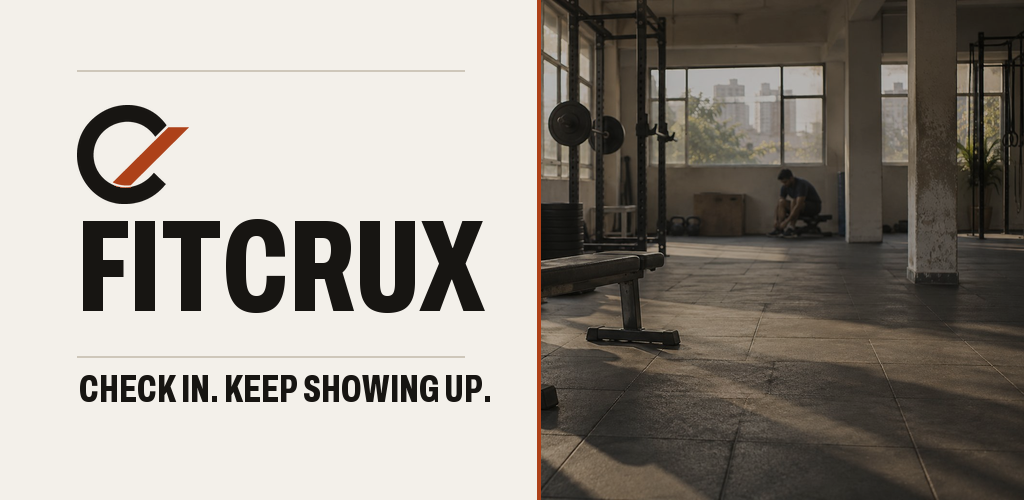
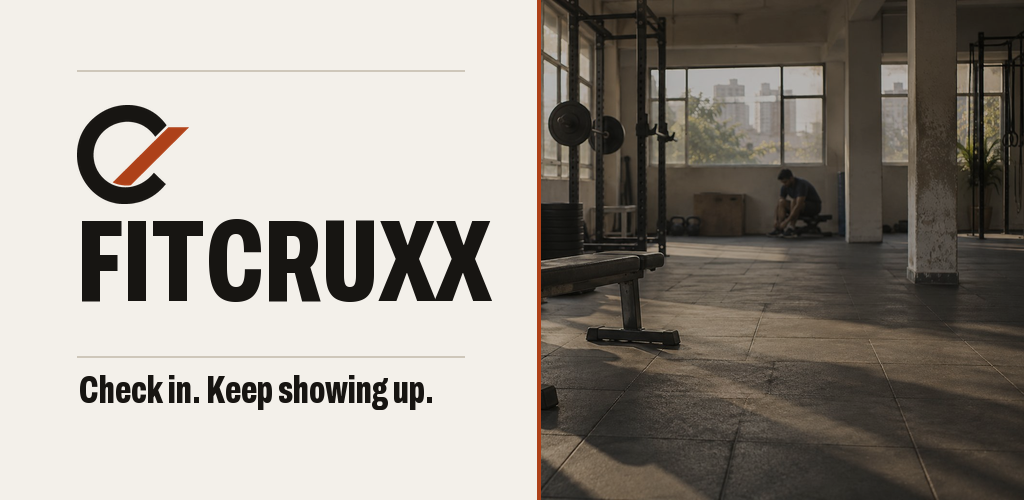
feat: locked rebrand to FitCruxx (in.fitcruxx.app)
PRODUCT_NAME, app label, camera prompt, Play listing copy and a FITCRUXX
feature graphic; the icon set keeps the C-and-clay-stroke mark.

Changed region(s): [[0.0625, 0.42, 0.5, 0.63], [0.0625, 0.75, 0.4688, 0.84]]

diff --git a/packages/shared/src/config/constants.ts b/packages/shared/src/config/constants.ts
@@ -13,7 +13,7 @@ import type { Database } from '@gymloop/db';
  */
 
 /** The one place the product name lives — renaming the product is one edit. */
-export const PRODUCT_NAME = 'Fitcrux';
+export const PRODUCT_NAME = 'FitCruxx';
 
 /** The publisher named on the Google Play listing and in the public legal pages. */
 export const PUBLISHER_NAME = 'Ductx';

diff --git a/store/play/listing.md b/store/play/listing.md
@@ -1,8 +1,8 @@
-# Google Play listing — Fitcrux
+# Google Play listing — FitCruxx
 
 ## Store fields
 
-- **App name:** Fitcrux (7 characters; limit 30)
+- **App name:** FitCruxx (8 characters; limit 30)
 - **Short description:** Check in, view your visits and membership, or help at the front desk. (69 characters; limit 80)
 - **Category:** Health & Fitness
 - **Suggested tags:** Fitness; Gym; Exercise; Workout; Habit tracking. Select only tags actually offered by Play Console.
@@ -12,7 +12,7 @@
 
 ## Full description
 
-Fitcrux is for members of gyms that use Fitcrux and the staff who help them at the front desk. Your gym provides and links your account; there is no sign-up in the app. Sign in with the account your gym linked to you.
+FitCruxx is for members of gyms that use FitCruxx and the staff who help them at the front desk. Your gym provides and links your account; there is no sign-up in the app. Sign in with the account your gym linked to you.
 
 For members:
 - Scan your gym's current QR code to check in. If you are offline, the check-in is saved on your device; the app retries it after you reconnect and return to Home. It counts only after your gym confirms it.
@@ -29,7 +29,7 @@ Choose System, Light or Dark appearance. Available information and actions depen
 
 ## Release notes — 1.0.0
 
-First Android release for members and front-desk staff at gyms using Fitcrux. Scan the gym's QR code for check-in, with offline saving and later confirmation; view visits, memberships, receipts, messages and add-ons. Staff can assist with check-ins, search members, review follow-ups and capture walk-in leads. Includes System, Light and Dark appearance.
+First Android release for members and front-desk staff at gyms using FitCruxx. Scan the gym's QR code for check-in, with offline saving and later confirmation; view visits, memberships, receipts, messages and add-ons. Staff can assist with check-ins, search members, review follow-ups and capture walk-in leads. Includes System, Light and Dark appearance.
 
 ## Suggested screenshot shot-list
 

diff --git a/store/play/data-safety.md b/store/play/data-safety.md
@@ -1,4 +1,4 @@
-# Fitcrux Android Data safety — Play Console answer sheet
+# FitCruxx Android Data safety — Play Console answer sheet
 
 **Scope:** Current Android source in `apps/mobile` and its `@gymloop/api-client` dependency, checked 24 September 2026. This is an answer sheet, not a submission. Play defines **collected** as data transmitted from the app off the user's device; simply receiving data from our server and displaying it is not an outbound collection. Data processed ephemerally must still be answered in the form even if it is not displayed in the public section ([Google Play Data safety guidance](https://support.google.com/googleplay/android-developer/answer/10787469)). A field stored on our server because the **web app or gym** entered it is not automatically collected *by this Android app*. Recheck the exact AAB before submitting: the recorded 1.0.0 production bundle predates some current source changes (`docs/evidence/2026-09-20-phase8-production-release.md:69-75`).
 
